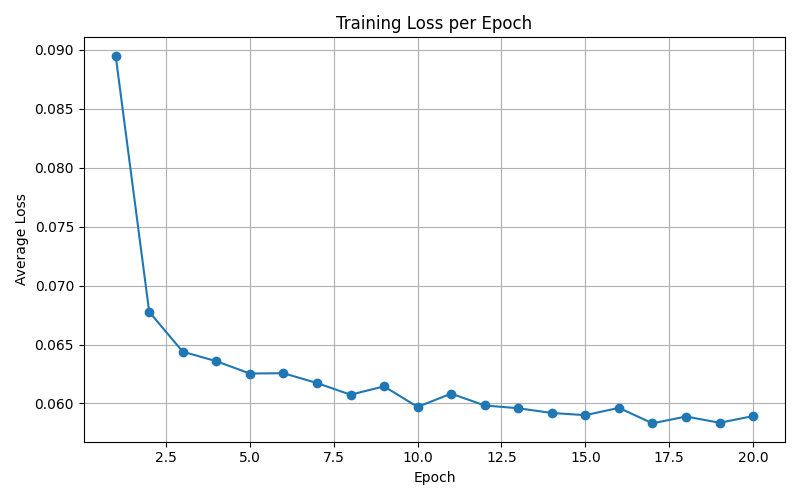
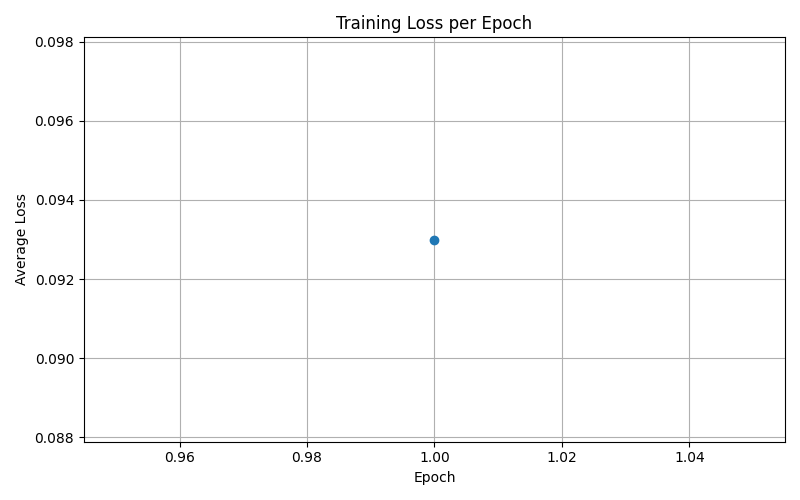
Added ddim_cfg

diff --git a/ddim_cfg.py b/ddim_cfg.py
@@ -2,7 +2,9 @@ import torch
 import torchvision
 import torch.nn.functional as F
 from torchvision import transforms
-from diffusers import DDPMScheduler, UNet2DModel, DDPMPipeline
+from diffusers import DDIMScheduler, UNet2DConditionModel
+from model.pipeline import ClassConditionalDDIMPipeline
+from settings import NULL_CLASS, NUM_CLASSES, image_size, batch_size
 import tqdm
 import matplotlib.pyplot as plt
 from utils import show_images
@@ -13,9 +15,6 @@ def main():
     os.makedirs(output_path, exist_ok=True)
     device = torch.device("cuda" if torch.cuda.is_available() else "cpu")
     print(device)
-
-    image_size = 32
-    batch_size = 64
 
     preprocess = transforms.Compose([
         transforms.Resize((image_size, image_size)),
@@ -37,9 +36,9 @@ def main():
         persistent_workers=True # optional but nice with >0 workers
     )
 
-    noise_scheduler = DDPMScheduler(num_train_timesteps=1000, beta_schedule="squaredcos_cap_v2")
+    noise_scheduler = DDIMScheduler(num_train_timesteps=1000, beta_schedule="squaredcos_cap_v2")
 
-    model = UNet2DModel(
+    model = UNet2DConditionModel(
         sample_size=image_size,
         in_channels=3,
         out_channels=3,
@@ -47,23 +46,45 @@ def main():
         block_out_channels=(64, 128, 128, 256),
         down_block_types=("DownBlock2D","DownBlock2D","AttnDownBlock2D","AttnDownBlock2D"),
         up_block_types=("AttnUpBlock2D","AttnUpBlock2D","UpBlock2D","UpBlock2D"),
+        class_embed_type=None,
+        cross_attention_dim=256,
+        num_class_embeds=NUM_CLASSES + 1,  # +1 for null
     ).to(device)
 
     optimizer = torch.optim.AdamW(model.parameters(), lr=4e-4)
     losses = []
 
+    p_uncond = 0.1  # classifier-free guidance dropout prob
+
     for epoch in range(20):
         tqdm_iter = tqdm.tqdm(train_dataloader, desc=f"Training epoch {epoch}")
         for step, batch in enumerate(tqdm_iter):
-            clean_images, _ = batch                   # <- tuple, not dict
+            clean_images, labels = batch
             clean_images = clean_images.to(device)
+            labels = labels.to(device)
+
+            # CFG dropout: replace a fraction with the null class
+            with torch.no_grad():
+                drop_mask = torch.rand(labels.shape, device=device) < p_uncond
+            class_labels = labels.clone()
+            class_labels[drop_mask] = NULL_CLASS  # 100 = null
 
             noise = torch.randn_like(clean_images)
             bs = clean_images.shape[0]
-            timesteps = torch.randint(0, noise_scheduler.num_train_timesteps, (bs,), device=device).long()
+            timesteps = torch.randint(
+                0, noise_scheduler.num_train_timesteps, (bs,), device=device
+            ).long()
             noisy_images = noise_scheduler.add_noise(clean_images, noise, timesteps)
 
-            noise_pred = model(noisy_images, timesteps, return_dict=False)[0]
+            # Forward with class labels
+            noise_pred = model(
+                noisy_images,
+                timesteps,
+                class_labels=class_labels,
+                encoder_hidden_states=None, 
+                return_dict=False
+            )[0]
+
             loss = F.mse_loss(noise_pred, noise)
 
             optimizer.zero_grad(set_to_none=True)
@@ -87,23 +108,19 @@ def main():
             plt.savefig(f'loss.png')
             # plt.show()
 
-            # Random starting point (8 random images):
-            sample = torch.randn(8, 3, 32, 32).to(device)
+            image_pipe = ClassConditionalDDIMPipeline(
+                unet=model,
+                scheduler=noise_scheduler,
+                image_size=image_size
+            ).to(device)
+            with torch.no_grad():
+                sample = image_pipe(batch_size=16, num_inference_steps=50, cfg_scale=7.5, eta=0.0).images  # list[PIL]
+            
+            for i, im in enumerate(sample):
+                im.save(f"{output_path}/sample_{epoch+1:03d}_{i:02d}.png")
 
-            for i, t in enumerate(noise_scheduler.timesteps):
-
-                # Get model pred
-                with torch.no_grad():
-                    residual = model(sample, t).sample
-
-                # Update sample with step
-                sample = noise_scheduler.step(residual, t, sample).prev_sample
-            pil_images = show_images(sample)
-            # Saved to "samples/epoch_{epoch+1}.png"
-            pil_images.save(os.path.join(output_path, f'epoch_{epoch+1}.png'))
-
-    model.save_pretrained("ddpm-cifar100-32px")
-    noise_scheduler.save_pretrained("ddpm-cifar100-32px")
+    model.save_pretrained("ddim_cfg-cifar100-32px")
+    noise_scheduler.save_pretrained("ddim_cfg-cifar100-32px")
 
 if __name__ == "__main__":
     # Optional: make spawn explicit

diff --git a/model/pipeline.py b/model/pipeline.py
@@ -1,0 +1,79 @@
+from dataclasses import dataclass
+from typing import List, Optional
+import torch
+from PIL import Image
+from diffusers import DDIMScheduler, DiffusionPipeline
+from settings import NULL_CLASS, NUM_CLASSES
+
+@dataclass
+class ImagePipelineOutput:
+    images: List[Image.Image]
+
+class ClassConditionalDDIMPipeline(DiffusionPipeline):
+    def __init__(self, unet, scheduler: DDIMScheduler, image_size: int = 32):
+        super().__init__()
+        self.register_modules(unet=unet, scheduler=scheduler)
+        self.image_size = image_size
+
+    @torch.no_grad()
+    def __call__(
+        self,
+        class_labels: Optional[torch.Tensor] = None,
+        batch_size: Optional[int] = None,
+        num_inference_steps: int = 50,
+        cfg_scale: float = 3.0,
+        eta: float = 0.0,
+        generator: Optional[torch.Generator] = None,
+        output_type: str = "pil",
+        device: Optional[torch.device] = None,
+    ) -> ImagePipelineOutput:
+
+        device = device or next(self.unet.parameters()).device
+
+        # Resolve batch size / labels
+        if class_labels is None:
+            if batch_size is None:
+                raise ValueError("Provide either class_labels or batch_size.")
+            class_labels = torch.randint(0, NUM_CLASSES, (batch_size,), device=device)
+        else:
+            class_labels = class_labels.to(device)
+            if batch_size is None:
+                batch_size = class_labels.shape[0]
+
+        null_labels = torch.full_like(class_labels, NULL_CLASS, device=device)
+
+        # Set DDIM steps and initialize latent
+        self.scheduler.set_timesteps(num_inference_steps, device=device)
+        sample = torch.randn(
+            batch_size, 3, self.image_size, self.image_size,
+            device=device, generator=generator
+        )
+
+        for t in self.scheduler.timesteps:
+            # Two forward passes (cond / uncond). You can concatenate to speed up.
+            eps_cond = self.unet(
+                sample, t, class_labels=class_labels, encoder_hidden_states=None
+            ).sample
+            eps_uncond = self.unet(
+                sample, t, class_labels=null_labels, encoder_hidden_states=None
+            ).sample
+
+            # CFG combine
+            eps = eps_uncond + cfg_scale * (eps_cond - eps_uncond)
+
+            # DDIM update
+            sample = self.scheduler.step(eps, t, sample, eta=eta).prev_sample
+
+        # Post-process to images in [0,255] uint8
+        images = self._to_pil(sample) if output_type == "pil" else sample
+        return ImagePipelineOutput(images=images)
+
+    def _to_pil(self, sample: torch.Tensor) -> List[Image.Image]:
+        """
+        sample: (B, 3, H, W) in [-1, 1]
+        returns: list of PIL.Image
+        """
+        sample = (sample.clamp(-1, 1) + 1) / 2.0           # [0,1]
+        sample = (sample * 255.0).round().to(torch.uint8)  # [0,255] uint8
+        sample = sample.detach().cpu().permute(0, 2, 3, 1).numpy()  # (B,H,W,C)
+        return [Image.fromarray(img) for img in sample]

diff --git a/data_extract.py b/data_extract.py
@@ -4,6 +4,8 @@ import torch.nn.functional as F
 from torchvision import transforms
 import os
 
+torch.manual_seed(0)
+
 image_size = 32
 batch_size = 64
 
@@ -30,14 +32,15 @@ output_folder = "cifar100_train"
 os.makedirs(output_folder, exist_ok=True)
 
 # Extract 256 images and save them to disk
+total_images = 2048
 image_count = 0
 for i, (images, labels) in enumerate(train_dataloader):
     for j in range(images.size(0)):
-        if image_count >= 256:
+        if image_count >= total_images:
             break
         img = images[j]
         img = (img * 0.5 + 0.5).clamp(0, 1)  # Unnormalize
         torchvision.utils.save_image(img, f"{output_folder}/image_{image_count:04d}.png")
         image_count += 1
-    if image_count >= 256:
+    if image_count >= total_images:
         break

diff --git a/ddpm.py b/ddpm.py
@@ -3,6 +3,7 @@ import torchvision
 import torch.nn.functional as F
 from torchvision import transforms
 from diffusers import DDPMScheduler, UNet2DModel, DDPMPipeline
+from settings import image_size, batch_size
 import tqdm
 import matplotlib.pyplot as plt
 from utils import show_images
@@ -14,8 +15,6 @@ def main():
     device = torch.device("cuda" if torch.cuda.is_available() else "cpu")
     print(device)
 
-    image_size = 32
-    batch_size = 64
 
     preprocess = transforms.Compose([
         transforms.Resize((image_size, image_size)),

diff --git a/settings.py b/settings.py
@@ -1,0 +1,4 @@
+NULL_CLASS = 100
+NUM_CLASSES = 100
+image_size = 32
+batch_size = 64
